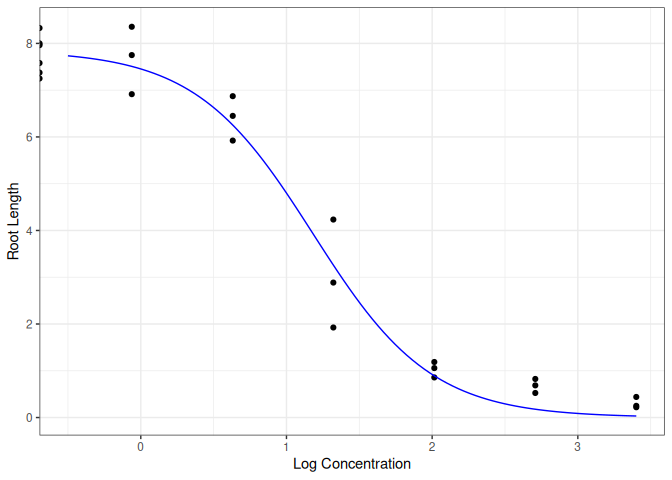
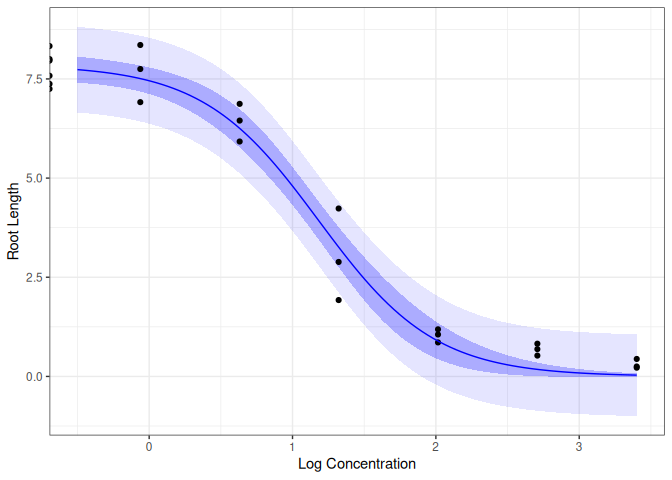
Show confidence and prediction intervals in the README

diff --git a/README.md b/README.md
@@ -41,20 +41,44 @@ data(ryegrass)
 mod <- drmTMB(rootl ~ conc, data = ryegrass, model = "loglogistic", 
               start=c(0, 8, -1, 2, 0), fix=c(TRUE, FALSE, FALSE, FALSE, TRUE))
 print(mod)
+#> Call:
+#> drmTMB(form = rootl ~ conc, data = ryegrass, start = c(0, 8, 
+#>     -1, 2, 0), fix = c(TRUE, FALSE, FALSE, FALSE, TRUE), model = "loglogistic")
+#> 
+#> Model:  loglogistic
+#> Family: gaussian, identity link for the asymptotes
+#> 
 #> Coefficients:
-#>                 Estimate Std. Error
-#> b2:(Intercept)  7.855428  0.1911812
-#> b3:(Intercept) -2.470324  0.3196156
-#> b4:(Intercept)  3.263356  0.1837212
+#> b2:(Intercept)  b3:(Intercept)  b4:(Intercept)  
+#>          7.855          -2.470           3.263  
+#> Fixed: b1:(Intercept) = 0, b5:(Intercept) = 0
+#> 
+#> Residual standard deviation: 0.5253
 ```
 
-With the `predict()` method, we can visualize the fitted curve.
+With the `predict()` method, we can visualize the fitted curve, together
+with 95% confidence intervals for the mean response
+(`interval = "confidence"`) and prediction intervals for a new
+observation (`interval = "prediction"`).
 
 ``` r
 newdata <- data.frame(conc = exp(seq(-0.5, log(30), length.out = 100)))
-newdata$pred <- predict(mod, newdata = newdata)
+ci <- predict(mod, newdata = newdata, interval = "confidence")
+pi <- predict(mod, newdata = newdata, interval = "prediction")
+head(cbind(newdata, ci))
+#>        conc      fit    se.fit      lwr      upr
+#> 1 0.6065307 7.734345 0.1675733 7.405907 8.062783
+#> 2 0.6309088 7.722175 0.1665990 7.395647 8.048703
+#> 3 0.6562668 7.708806 0.1657090 7.384022 8.033589
+#> 4 0.6826439 7.694123 0.1649320 7.370862 8.017384
+#> 5 0.7100813 7.678003 0.1643010 7.355979 8.000027
+#> 6 0.7386214 7.660314 0.1638521 7.339169 7.981458
+newdata[c("pred", "clwr", "cupr")] <- ci[c("fit", "lwr", "upr")]
+newdata[c("plwr", "pupr")] <- pi[c("lwr", "upr")]
 library(ggplot2)
 ggplot(ryegrass, aes(x = log(conc), y = rootl)) +
+  geom_ribbon(data = newdata, aes(x = log(conc), y = pred, ymin = plwr, ymax = pupr), fill = "blue", alpha = 0.1) +
+  geom_ribbon(data = newdata, aes(x = log(conc), y = pred, ymin = clwr, ymax = cupr), fill = "blue", alpha = 0.25) +
   geom_point() +
   geom_line(data = newdata, aes(x = log(conc), y = pred), color = "blue") +
   labs(x = "Log Concentration", y = "Root Length") +
@@ -62,6 +86,10 @@ ggplot(ryegrass, aes(x = log(conc), y = rootl)) +
 ```
 
 ![](README-unnamed-chunk-4-1.png)<!-- -->
+
+Bootstrap intervals are available by passing a parametric bootstrap
+sample of the model from `bootstrap()` through the `boot` argument of
+`predict()`.
 
 ## Effective dose estimation
 
@@ -95,7 +123,7 @@ confint(effdose_glht)
 #> 
 #> Fit: NULL
 #> 
-#> Quantile = 2.3179
+#> Quantile = 2.3181
 #> 95% family-wise confidence level
 #>  
 #> 
@@ -103,5 +131,5 @@ confint(effdose_glht)
 #>           Estimate lwr    upr   
 #> ED25 == 0 2.0918   1.6870 2.4966
 #> ED50 == 0 3.2634   2.8375 3.6892
-#> ED75 == 0 5.0910   4.1777 6.0044
+#> ED75 == 0 5.0910   4.1776 6.0045
 ```
